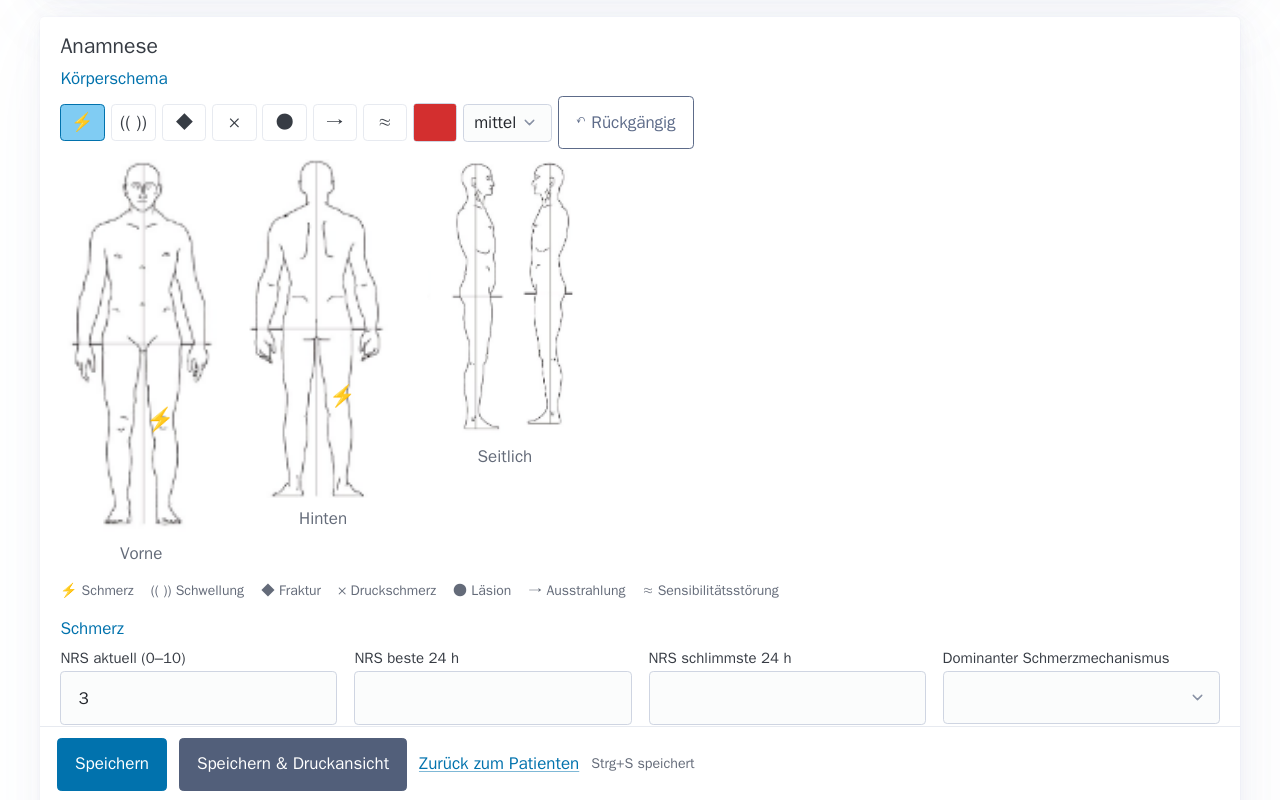
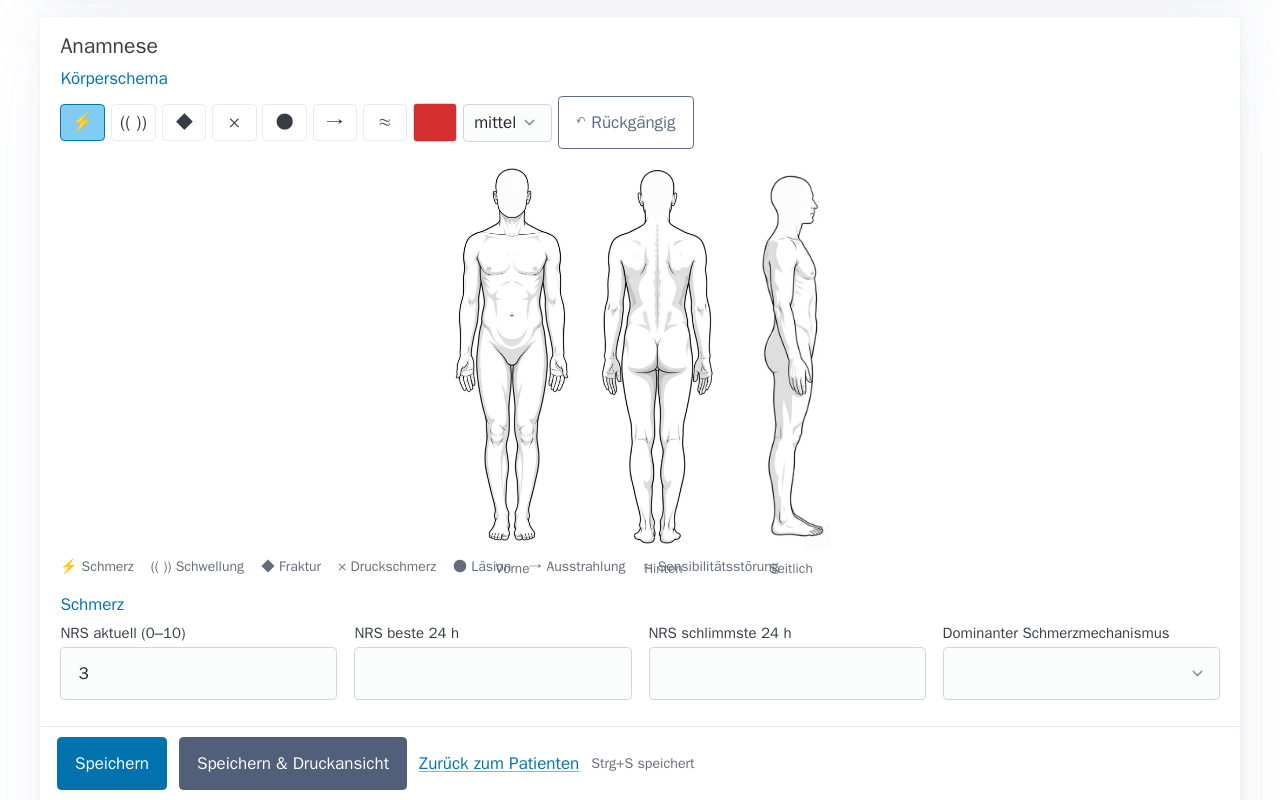
Update README preview to the new body charts; add chart sources
Assisted-by: Claude (Anthropic) via the pi coding agent

diff --git a/web/templates/login.html b/web/templates/login.html
@@ -3,7 +3,7 @@
 {{if .Demo}}
 <article class="demo-box">
   <h2>Demo-Vorschau</h2>
-  <p>Anmelden mit <strong>admin</strong> / <strong>demo123</strong>. Alle Änderungen werden <strong>beim Abmelden gelöscht</strong>.</p>
+  <p>Anmelden mit <strong>admin</strong> / <strong>demo1234</strong>. Alle Änderungen werden <strong>beim Abmelden gelöscht</strong>.</p>
   <p class="muted">Besucher: heute {{.DemoInfo.Today}} · letzte 7 Tage {{.DemoInfo.Week}} · gesamt {{.DemoInfo.Total}} (nur nach Einwilligung).</p>
   <form method="post" action="/demo/reset" class="inline"><button type="submit" class="secondary outline small">Demo zurücksetzen</button></form>
 </article>

diff --git a/docs/body-chart-quellen.md b/docs/body-chart-quellen.md
@@ -1,0 +1,13 @@
+# Quellen der Körperschema-Bilder
+
+Alle drei Vorlagen sind **CC0 (Public Domain)** von Wikimedia Commons – frei nutzbar,
+keine Namensnennung nötig.
+
+| Ansicht | Datei | Quelle |
+|---|---|---|
+| Vorne | `web/static/body/body-front.png` | Wikimedia Commons, CC0 |
+| Hinten | `web/static/body/body-back.png` | Wikimedia Commons, CC0 |
+| Seitlich | `web/static/body/body-side.png` | Wikimedia Commons, CC0 |
+
+Die Seitenverhältnisse stehen in `internal/befund/schema.go` → `Views`; die
+Stempel-Koordinaten sind auf 0–1 normalisiert und skalieren dadurch automatisch mit.
